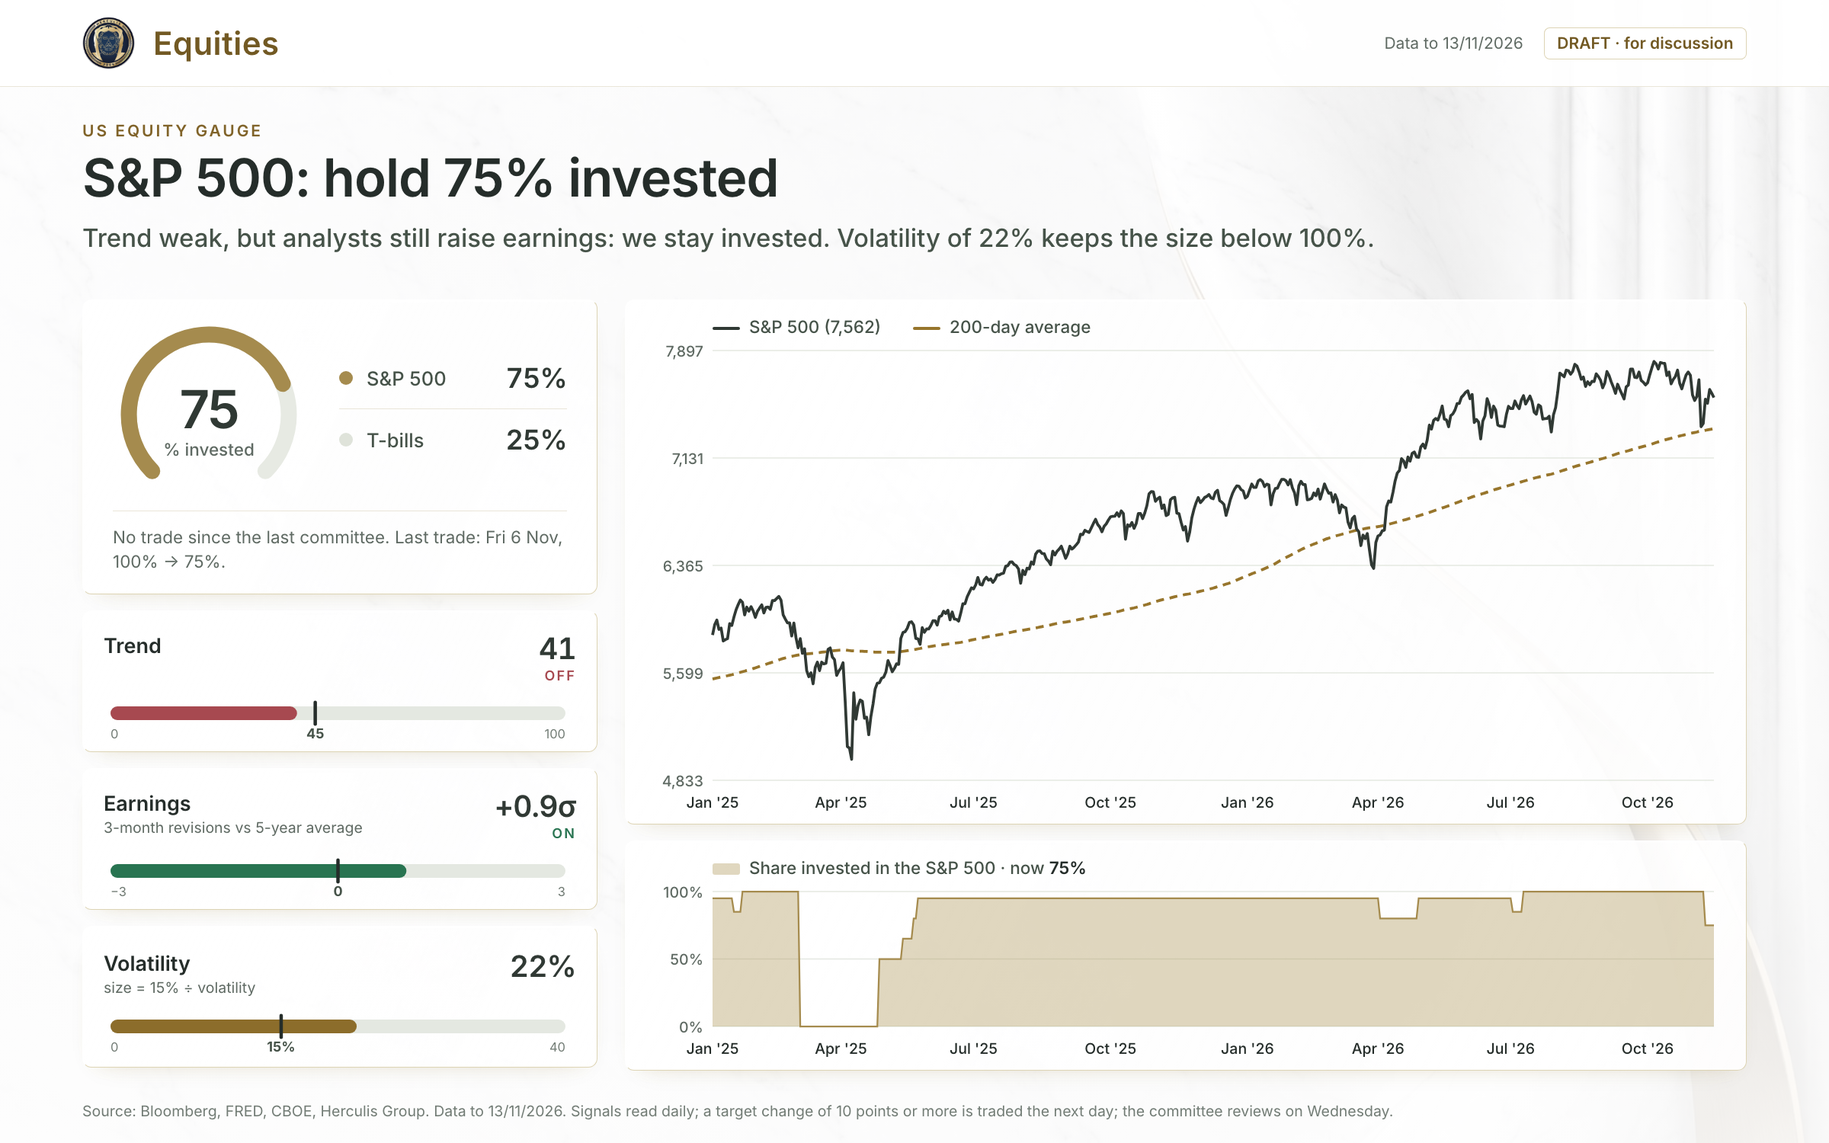
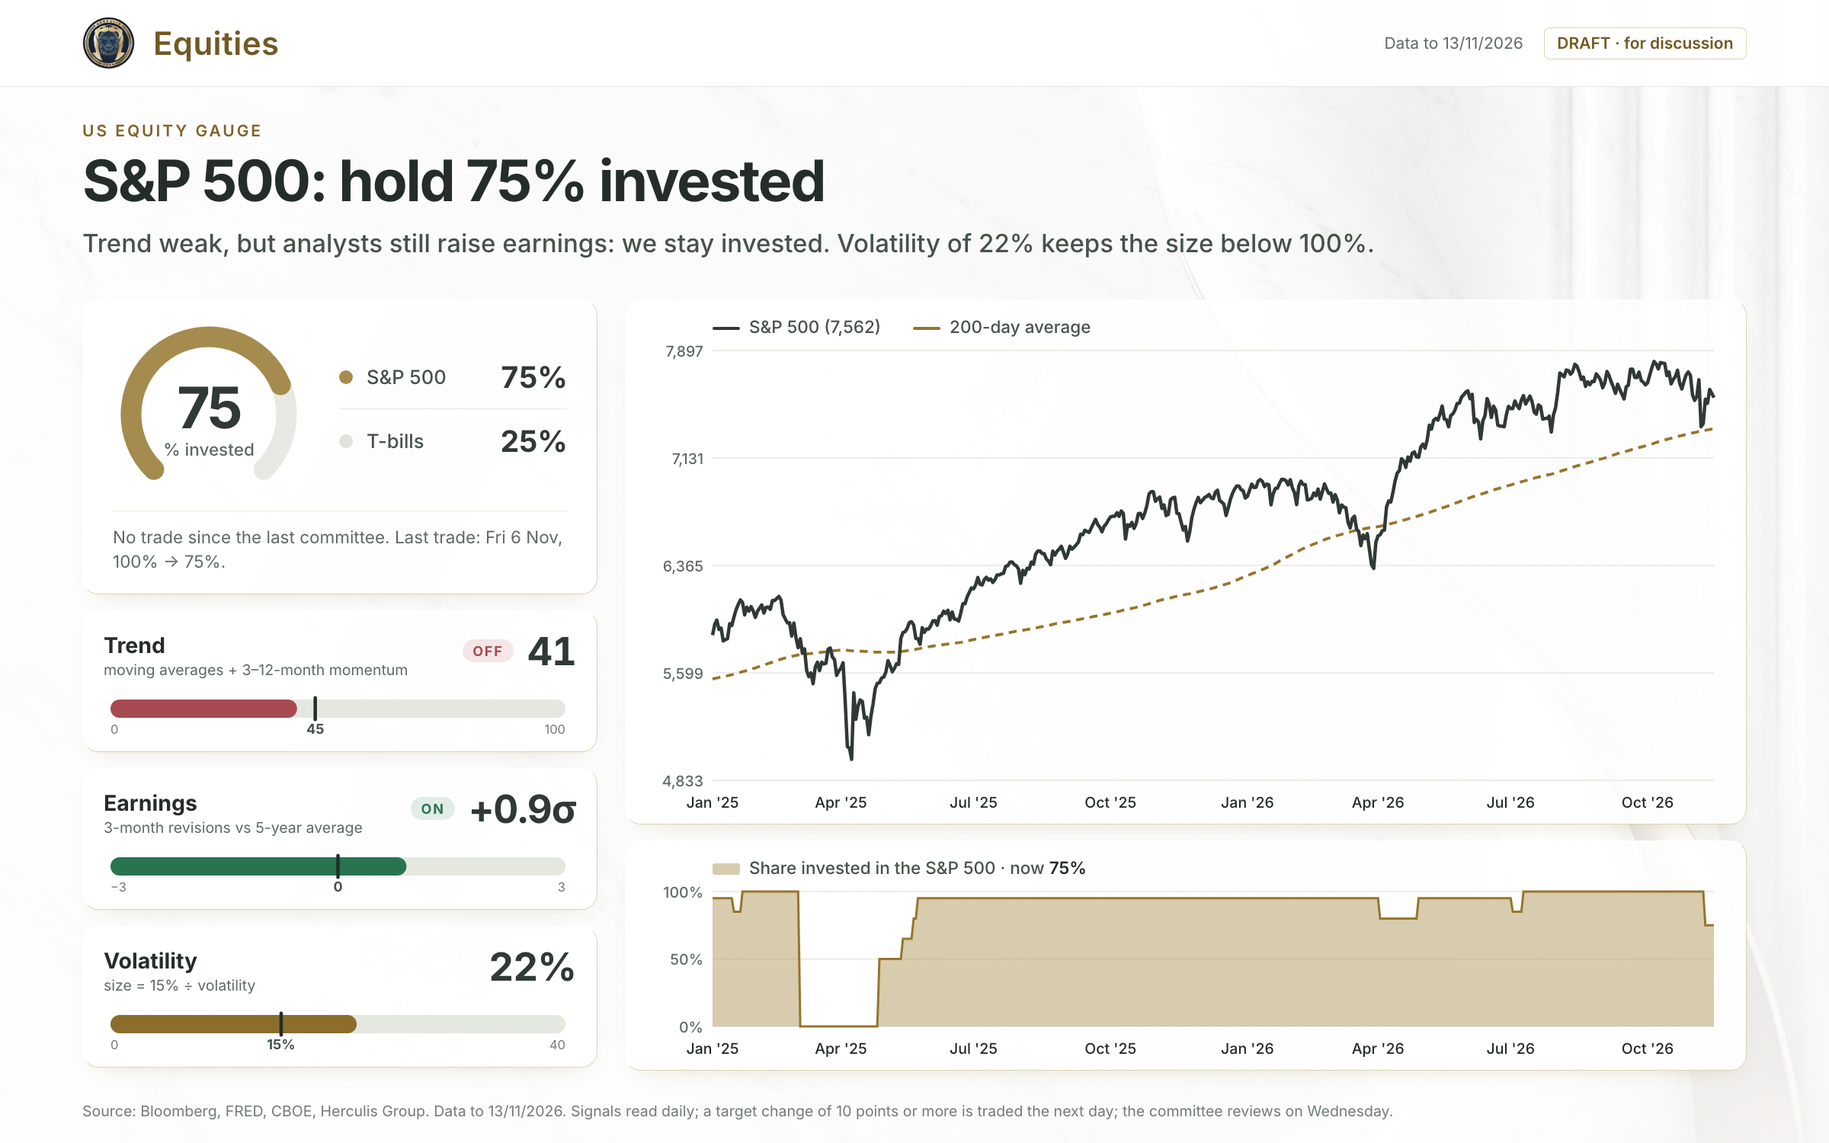
mockups: herculis slide v7 - trend definition, bolder look
- Trend tile sub-line: "moving averages + 3-12-month momentum" (what the DMAS-based
  score combines: price vs 50/100/200-day averages and 3/6/12-month momentum).
- Bolder: headline 700, tile values 34px 700, legend values 700, ON/OFF as tinted
  pills beside the value, thicker signal bars (16px, style option BARH), thicker
  gauge ring, 14px card corners, heavier price line and exposure fill.
- Default --style ic output is byte-identical.

diff --git a/mockups/us_gauge_slide_herculis.html b/mockups/us_gauge_slide_herculis.html
@@ -18,13 +18,13 @@ body{width:1600px;height:1000px;font-family:var(--sans);color:var(--text);positi
 .top .meta{margin-left:auto;display:flex;align-items:center;gap:18px;font-size:14px;color:var(--muted)}
 .draft{font-weight:600;color:var(--gold-ink);background:var(--glass);border:1px solid var(--gold-edge);border-radius:5px;padding:5px 11px}
 .head{margin:30px 72px 0}
-.head h2{font-size:46px;font-weight:600;line-height:1.1;letter-spacing:-.015em;margin-top:8px}
+.head h2{font-size:50px;font-weight:700;line-height:1.1;letter-spacing:-.03em;margin-top:8px}
 .head p:not(.eyebrow){font-size:22px;font-weight:500;color:var(--text-2);margin-top:12px;max-width:1400px;line-height:1.35}
 .body{position:absolute;left:72px;top:262px;width:1456px;height:672px;display:flex;gap:24px}
 .left{width:470px;display:flex;flex-direction:column;gap:14px}
 /* white glass cards with gold edges, as on herculis.ai (no marble inside: the page already has it) */
 .card,.gg{background:linear-gradient(116deg,var(--surface),var(--glass) 60%,var(--veil));border:1px solid var(--surface);border-right-color:var(--gold-edge);border-bottom-color:var(--gold-edge);
- border-radius:8px;box-shadow:inset 1px 1px 1px var(--surface),var(--shadow-sm)}
+ border-radius:14px;box-shadow:inset 1px 1px 1px var(--surface),var(--shadow-sm)}
 /* allocation: S&P 500 / T-bills gauge */
 .dec{padding:20px 26px 18px}
 .alloc{display:flex;align-items:center;gap:30px}
@@ -34,15 +34,16 @@ body{width:1600px;height:1000px;font-family:var(--sans);color:var(--text);positi
 .legend2 div+div{border-top:1px solid var(--gold-hair)}
 .legend2 i{width:12px;height:12px;border-radius:50%;flex:none}
 .legend2 span{flex:1;font-size:17px;font-weight:500;color:var(--text-2)}
-.legend2 b{font-size:24px;font-weight:600;letter-spacing:-.02em;color:var(--score);font-variant-numeric:tabular-nums}
+.legend2 b{font-size:26px;font-weight:700;letter-spacing:-.02em;color:var(--score);font-variant-numeric:tabular-nums}
 .dec .last{margin-top:14px;padding-top:12px;border-top:1px solid var(--gold-hair);font-size:15px;color:var(--muted);line-height:1.4}
 /* the three signals, stacked */
 .sig{flex:1;display:flex;flex-direction:column;gap:14px}
-.gg{flex:1;padding:12px 18px 2px;display:flex;flex-direction:column;justify-content:center;gap:12px}
+.gg{flex:1;padding:10px 18px 6px;display:flex;flex-direction:column;justify-content:center;gap:12px}
 .gh{display:flex;justify-content:space-between;align-items:flex-start}
-.gh b{font-size:18px;font-weight:600}.gh small{display:block;font-size:13px;color:var(--muted);margin-top:2px}
-.gv{text-align:right}.gv strong{font-variant-numeric:tabular-nums;font-size:26px;font-weight:600;color:var(--score);display:block;line-height:1;letter-spacing:-.02em}
-.gv span{font-size:12px;font-weight:600;letter-spacing:.12em;display:block;margin-top:4px}
+.gh b{font-size:19px;font-weight:700}.gh small{display:block;font-size:13px;color:var(--muted);margin-top:2px}
+.gv{display:flex;flex-direction:row-reverse;align-items:center;gap:12px}.gv strong{font-variant-numeric:tabular-nums;font-size:34px;font-weight:700;color:var(--score);display:block;line-height:1;letter-spacing:-.02em}
+.gv span{display:inline-block;font-size:12px;font-weight:700;letter-spacing:.1em;padding:3px 9px;border-radius:999px;background:color-mix(in srgb,currentColor 13%,transparent)}
+.gv span:empty{display:none}
 /* charts: price on top, exposure in its own card below */
 .right{flex:1;display:flex;flex-direction:column;gap:14px}
 .chart{padding:14px 18px 4px}
@@ -68,7 +69,7 @@ svg text{font-family:var(--sans)}
    </div>
    <div class="last">No trade since the last committee. Last trade: Fri 6 Nov, 100% → 75%.</div>
   </div>
-  <div class="sig"><div class="gg"><div class="gh"><div><b>Trend</b><small></small></div><div class="gv"><strong>41</strong><span style="color:#a74950">OFF</span></div></div><svg width="410" height="38"><rect x="6" y="8" width="398" height="12" rx="6" fill="#e4e8e1"/><rect x="6" y="8" width="163.2" height="12" rx="6" fill="#a74950"/><rect x="183.6" y="3" width="3" height="22" rx="1.5" fill="#252d2a"/><text x="185.1" y="36" font-size="12" fill="#465349" text-anchor="middle" font-weight="700">45</text><text x="6" y="36" font-size="11" fill="#727c75">0</text><text x="404" y="36" font-size="11" fill="#727c75" text-anchor="end">100</text></svg></div><div class="gg"><div class="gh"><div><b>Earnings</b><small>3-month revisions vs 5-year average</small></div><div class="gv"><strong>+0.9σ</strong><span style="color:#287451">ON</span></div></div><svg width="410" height="38"><rect x="6" y="8" width="398" height="12" rx="6" fill="#e4e8e1"/><rect x="6" y="8" width="258.9" height="12" rx="6" fill="#287451"/><rect x="203.5" y="3" width="3" height="22" rx="1.5" fill="#252d2a"/><text x="205.0" y="36" font-size="12" fill="#465349" text-anchor="middle" font-weight="700">0</text><text x="6" y="36" font-size="11" fill="#727c75">−3</text><text x="404" y="36" font-size="11" fill="#727c75" text-anchor="end">3</text></svg></div><div class="gg"><div class="gh"><div><b>Volatility</b><small>size = 15% ÷ volatility</small></div><div class="gv"><strong>22%</strong><span style="color:#8c6d2b"></span></div></div><svg width="410" height="38"><rect x="6" y="8" width="398" height="12" rx="6" fill="#e4e8e1"/><rect x="6" y="8" width="215.4" height="12" rx="6" fill="#8c6d2b"/><rect x="153.8" y="3" width="3" height="22" rx="1.5" fill="#252d2a"/><text x="155.2" y="36" font-size="12" fill="#465349" text-anchor="middle" font-weight="700">15%</text><text x="6" y="36" font-size="11" fill="#727c75">0</text><text x="404" y="36" font-size="11" fill="#727c75" text-anchor="end">40</text></svg></div></div>
+  <div class="sig"><div class="gg"><div class="gh"><div><b>Trend</b><small>moving averages + 3–12-month momentum</small></div><div class="gv"><strong>41</strong><span style="color:#a74950">OFF</span></div></div><svg width="410" height="38"><rect x="6" y="6" width="398" height="16" rx="8" fill="#e4e8e1"/><rect x="6" y="6" width="163.2" height="16" rx="8" fill="#a74950"/><rect x="183.6" y="3" width="3" height="22" rx="1.5" fill="#252d2a"/><text x="185.1" y="36" font-size="12" fill="#465349" text-anchor="middle" font-weight="700">45</text><text x="6" y="36" font-size="11" fill="#727c75">0</text><text x="404" y="36" font-size="11" fill="#727c75" text-anchor="end">100</text></svg></div><div class="gg"><div class="gh"><div><b>Earnings</b><small>3-month revisions vs 5-year average</small></div><div class="gv"><strong>+0.9σ</strong><span style="color:#287451">ON</span></div></div><svg width="410" height="38"><rect x="6" y="6" width="398" height="16" rx="8" fill="#e4e8e1"/><rect x="6" y="6" width="258.9" height="16" rx="8" fill="#287451"/><rect x="203.5" y="3" width="3" height="22" rx="1.5" fill="#252d2a"/><text x="205.0" y="36" font-size="12" fill="#465349" text-anchor="middle" font-weight="700">0</text><text x="6" y="36" font-size="11" fill="#727c75">−3</text><text x="404" y="36" font-size="11" fill="#727c75" text-anchor="end">3</text></svg></div><div class="gg"><div class="gh"><div><b>Volatility</b><small>size = 15% ÷ volatility</small></div><div class="gv"><strong>22%</strong><span style="color:#8c6d2b"></span></div></div><svg width="410" height="38"><rect x="6" y="6" width="398" height="16" rx="8" fill="#e4e8e1"/><rect x="6" y="6" width="215.4" height="16" rx="8" fill="#8c6d2b"/><rect x="153.8" y="3" width="3" height="22" rx="1.5" fill="#252d2a"/><text x="155.2" y="36" font-size="12" fill="#465349" text-anchor="middle" font-weight="700">15%</text><text x="6" y="36" font-size="11" fill="#727c75">0</text><text x="404" y="36" font-size="11" fill="#727c75" text-anchor="end">40</text></svg></div></div>
  </div>
  <div class="right">
   <div class="card chart px">
@@ -76,7 +77,7 @@ svg text{font-family:var(--sans)}
    <svg id="c" width="944" height="414"></svg>
   </div>
   <div class="card chart">
-   <div class="legend"><span><i style="background:#b29a5e66;height:10px"></i>Share invested in the S&amp;P 500 · now <b>75%</b></span></div>
+   <div class="legend"><span><i style="background:#b29a5e80;height:10px"></i>Share invested in the S&amp;P 500 · now <b>75%</b></span></div>
    <svg id="e" width="944" height="156"></svg>
   </div>
  </div>
@@ -93,18 +94,18 @@ const months=(H)=>{const m0={};let s='';D.dates.forEach((d,i)=>{const m=d.slice(
  const lo=Math.min(...D.px,...mav)*0.97,hi=Math.max(...D.px)*1.01,y=v=>T+(hi-v)/(hi-lo)*ph;let s='';
  for(let k=0;k<=4;k++){const v=lo+(hi-lo)*k/4;s+=ytxt(y(v),Math.round(v).toLocaleString('en-US'))}
  s+=`<polyline fill="none" stroke="#97752c" stroke-width="2.5" stroke-dasharray="7 5" points="${D.ma200.map((v,i)=>v===null?'':x(i)+','+y(v)).join(' ')}"/>`;
- s+=`<polyline fill="none" stroke="#303934" stroke-width="2.5" stroke-linejoin="round" points="${D.px.map((v,i)=>x(i)+','+y(v)).join(' ')}"/>`;
+ s+=`<polyline fill="none" stroke="#303934" stroke-width="3" stroke-linejoin="round" points="${D.px.map((v,i)=>x(i)+','+y(v)).join(' ')}"/>`;
  document.getElementById('c').innerHTML=s+months(H)}
 // exposure chart
 {const H=156,T=8,B=30,wh=H-T-B,yw=v=>T+(1-v)*wh;let s='';[0,0.5,1].forEach(v=>s+=ytxt(yw(v),v*100+'%'));
  let a=`${x(0)},${yw(0)} `,edge='';D.w.forEach((v,i)=>{if(v!==null){a+=`${x(i)},${yw(v)} `;edge+=`${x(i)},${yw(v)} `}});a+=`${x(n-1)},${yw(0)}`;
- s+=`<polygon points="${a}" fill="#b29a5e66"/><polyline fill="none" stroke="#a58b4e" stroke-width="1.5" points="${edge}"/>`;
+ s+=`<polygon points="${a}" fill="#b29a5e80"/><polyline fill="none" stroke="#97752c" stroke-width="2" points="${edge}"/>`;
  document.getElementById('e').innerHTML=s+months(H)}
 // allocation gauge: three-quarter ring. One light track, the S&P 500 share drawn on top in gold, number in the centre ("75" over "% invested").
-{const cx=84,cy=80,r=70,sw=14,F=f=>{const t=(225-270*f)*Math.PI/180;return `${(cx+r*Math.cos(t)).toFixed(1)},${(cy-r*Math.sin(t)).toFixed(1)}`},
+{const cx=84,cy=80,r=68,sw=18,F=f=>{const t=(225-270*f)*Math.PI/180;return `${(cx+r*Math.cos(t)).toFixed(1)},${(cy-r*Math.sin(t)).toFixed(1)}`},
  arc=(f,c)=>f>0.002?`<path d="M${F(0)} A${r} ${r} 0 ${270*f>180?1:0} 1 ${F(f)}" fill="none" stroke="${c}" stroke-width="${sw}" stroke-linecap="round"/>`:'';
  let s=arc(1,'#e7eae3')+arc(HELD,'#a58b4e');
- s+=`<text x="${cx}" y="${cy+12}" font-size="46" font-weight="600" text-anchor="middle" fill="#303934" letter-spacing="-1.5">${Math.round(HELD*100)}</text>`;
+ s+=`<text x="${cx}" y="${cy+12}" font-size="50" font-weight="700" text-anchor="middle" fill="#303934" letter-spacing="-2">${Math.round(HELD*100)}</text>`;
  s+=`<text x="${cx}" y="${cy+36}" font-size="15" font-weight="500" text-anchor="middle" fill="#5f6a63">% invested</text>`;
  document.getElementById('g').innerHTML=s}
 </script></body></html>

diff --git a/mockups/core_slide_template_herculis.html b/mockups/core_slide_template_herculis.html
@@ -18,13 +18,13 @@ body{width:1600px;height:1000px;font-family:var(--sans);color:var(--text);positi
 .top .meta{margin-left:auto;display:flex;align-items:center;gap:18px;font-size:14px;color:var(--muted)}
 .draft{font-weight:600;color:var(--gold-ink);background:var(--glass);border:1px solid var(--gold-edge);border-radius:5px;padding:5px 11px}
 .head{margin:30px 72px 0}
-.head h2{font-size:46px;font-weight:600;line-height:1.1;letter-spacing:-.015em;margin-top:8px}
+.head h2{font-size:50px;font-weight:700;line-height:1.1;letter-spacing:-.03em;margin-top:8px}
 .head p:not(.eyebrow){font-size:22px;font-weight:500;color:var(--text-2);margin-top:12px;max-width:1400px;line-height:1.35}
 .body{position:absolute;left:72px;top:262px;width:1456px;height:672px;display:flex;gap:24px}
 .left{width:470px;display:flex;flex-direction:column;gap:14px}
 /* white glass cards with gold edges, as on herculis.ai (no marble inside: the page already has it) */
 .card,.gg{background:linear-gradient(116deg,var(--surface),var(--glass) 60%,var(--veil));border:1px solid var(--surface);border-right-color:var(--gold-edge);border-bottom-color:var(--gold-edge);
- border-radius:8px;box-shadow:inset 1px 1px 1px var(--surface),var(--shadow-sm)}
+ border-radius:14px;box-shadow:inset 1px 1px 1px var(--surface),var(--shadow-sm)}
 /* allocation: S&P 500 / T-bills gauge */
 .dec{padding:20px 26px 18px}
 .alloc{display:flex;align-items:center;gap:30px}
@@ -34,15 +34,16 @@ body{width:1600px;height:1000px;font-family:var(--sans);color:var(--text);positi
 .legend2 div+div{border-top:1px solid var(--gold-hair)}
 .legend2 i{width:12px;height:12px;border-radius:50%;flex:none}
 .legend2 span{flex:1;font-size:17px;font-weight:500;color:var(--text-2)}
-.legend2 b{font-size:24px;font-weight:600;letter-spacing:-.02em;color:var(--score);font-variant-numeric:tabular-nums}
+.legend2 b{font-size:26px;font-weight:700;letter-spacing:-.02em;color:var(--score);font-variant-numeric:tabular-nums}
 .dec .last{margin-top:14px;padding-top:12px;border-top:1px solid var(--gold-hair);font-size:15px;color:var(--muted);line-height:1.4}
 /* the three signals, stacked */
 .sig{flex:1;display:flex;flex-direction:column;gap:14px}
-.gg{flex:1;padding:12px 18px 2px;display:flex;flex-direction:column;justify-content:center;gap:12px}
+.gg{flex:1;padding:10px 18px 6px;display:flex;flex-direction:column;justify-content:center;gap:12px}
 .gh{display:flex;justify-content:space-between;align-items:flex-start}
-.gh b{font-size:18px;font-weight:600}.gh small{display:block;font-size:13px;color:var(--muted);margin-top:2px}
-.gv{text-align:right}.gv strong{font-variant-numeric:tabular-nums;font-size:26px;font-weight:600;color:var(--score);display:block;line-height:1;letter-spacing:-.02em}
-.gv span{font-size:12px;font-weight:600;letter-spacing:.12em;display:block;margin-top:4px}
+.gh b{font-size:19px;font-weight:700}.gh small{display:block;font-size:13px;color:var(--muted);margin-top:2px}
+.gv{display:flex;flex-direction:row-reverse;align-items:center;gap:12px}.gv strong{font-variant-numeric:tabular-nums;font-size:34px;font-weight:700;color:var(--score);display:block;line-height:1;letter-spacing:-.02em}
+.gv span{display:inline-block;font-size:12px;font-weight:700;letter-spacing:.1em;padding:3px 9px;border-radius:999px;background:color-mix(in srgb,currentColor 13%,transparent)}
+.gv span:empty{display:none}
 /* charts: price on top, exposure in its own card below */
 .right{flex:1;display:flex;flex-direction:column;gap:14px}
 .chart{padding:14px 18px 4px}
@@ -76,7 +77,7 @@ svg text{font-family:var(--sans)}
    <svg id="c" width="944" height="414"></svg>
   </div>
   <div class="card chart">
-   <div class="legend"><span><i style="background:#b29a5e66;height:10px"></i>Share invested in the S&amp;P 500 · now <b>{{HELD}}</b></span></div>
+   <div class="legend"><span><i style="background:#b29a5e80;height:10px"></i>Share invested in the S&amp;P 500 · now <b>{{HELD}}</b></span></div>
    <svg id="e" width="944" height="156"></svg>
   </div>
  </div>
@@ -93,18 +94,18 @@ const months=(H)=>{const m0={};let s='';D.dates.forEach((d,i)=>{const m=d.slice(
  const lo=Math.min(...D.px,...mav)*0.97,hi=Math.max(...D.px)*1.01,y=v=>T+(hi-v)/(hi-lo)*ph;let s='';
  for(let k=0;k<=4;k++){const v=lo+(hi-lo)*k/4;s+=ytxt(y(v),Math.round(v).toLocaleString('en-US'))}
  s+=`<polyline fill="none" stroke="#97752c" stroke-width="2.5" stroke-dasharray="7 5" points="${D.ma200.map((v,i)=>v===null?'':x(i)+','+y(v)).join(' ')}"/>`;
- s+=`<polyline fill="none" stroke="#303934" stroke-width="2.5" stroke-linejoin="round" points="${D.px.map((v,i)=>x(i)+','+y(v)).join(' ')}"/>`;
+ s+=`<polyline fill="none" stroke="#303934" stroke-width="3" stroke-linejoin="round" points="${D.px.map((v,i)=>x(i)+','+y(v)).join(' ')}"/>`;
  document.getElementById('c').innerHTML=s+months(H)}
 // exposure chart
 {const H=156,T=8,B=30,wh=H-T-B,yw=v=>T+(1-v)*wh;let s='';[0,0.5,1].forEach(v=>s+=ytxt(yw(v),v*100+'%'));
  let a=`${x(0)},${yw(0)} `,edge='';D.w.forEach((v,i)=>{if(v!==null){a+=`${x(i)},${yw(v)} `;edge+=`${x(i)},${yw(v)} `}});a+=`${x(n-1)},${yw(0)}`;
- s+=`<polygon points="${a}" fill="#b29a5e66"/><polyline fill="none" stroke="#a58b4e" stroke-width="1.5" points="${edge}"/>`;
+ s+=`<polygon points="${a}" fill="#b29a5e80"/><polyline fill="none" stroke="#97752c" stroke-width="2" points="${edge}"/>`;
  document.getElementById('e').innerHTML=s+months(H)}
 // allocation gauge: three-quarter ring. One light track, the S&P 500 share drawn on top in gold, number in the centre ("75" over "% invested").
-{const cx=84,cy=80,r=70,sw=14,F=f=>{const t=(225-270*f)*Math.PI/180;return `${(cx+r*Math.cos(t)).toFixed(1)},${(cy-r*Math.sin(t)).toFixed(1)}`},
+{const cx=84,cy=80,r=68,sw=18,F=f=>{const t=(225-270*f)*Math.PI/180;return `${(cx+r*Math.cos(t)).toFixed(1)},${(cy-r*Math.sin(t)).toFixed(1)}`},
  arc=(f,c)=>f>0.002?`<path d="M${F(0)} A${r} ${r} 0 ${270*f>180?1:0} 1 ${F(f)}" fill="none" stroke="${c}" stroke-width="${sw}" stroke-linecap="round"/>`:'';
  let s=arc(1,'#e7eae3')+arc(HELD,'#a58b4e');
- s+=`<text x="${cx}" y="${cy+12}" font-size="46" font-weight="600" text-anchor="middle" fill="#303934" letter-spacing="-1.5">${Math.round(HELD*100)}</text>`;
+ s+=`<text x="${cx}" y="${cy+12}" font-size="50" font-weight="700" text-anchor="middle" fill="#303934" letter-spacing="-2">${Math.round(HELD*100)}</text>`;
  s+=`<text x="${cx}" y="${cy+36}" font-size="15" font-weight="500" text-anchor="middle" fill="#5f6a63">% invested</text>`;
  document.getElementById('g').innerHTML=s}
 </script></body></html>

diff --git a/mockups/build_core_slide.py b/mockups/build_core_slide.py
@@ -16,16 +16,16 @@ HERE = Path(__file__).resolve().parent
 # colours used inside the builder's SVG/HTML snippets; the rest of each look lives in its template
 STYLES = {
     'ic': dict(GREEN='#16A34A', RED='#DC2626', AMBER='#D97706', TRACK='#E5E9F0', MARK='#040C38', LAB='#475569',
-               END='#94A3B8', GREY='#94A3B8', tpl='core_slide_template.html', out='us_gauge_slide.html',
+               END='#94A3B8', GREY='#94A3B8', BARH=12, tpl='core_slide_template.html', out='us_gauge_slide.html',
                name='US equities', W=268, trend=('Trend', 'score 0–100 · switch at 45'), vol_size=True,
                earn=('Earnings', 'revisions, 3 months · switch at 0', '')),
     # herculis.ai tokens (market-herculis/quant-web/site/tokens.css): positive, negative, gold accent, text, muted, dim
     'herculis': dict(GREEN='#287451', RED='#a74950', AMBER='#8c6d2b', TRACK='#e4e8e1', MARK='#252d2a', LAB='#465349',
-                     END='#727c75', GREY='#8597a0', tpl='core_slide_template_herculis.html', out='us_gauge_slide_herculis.html',
-                     name='S&amp;P 500', W=410, trend=('Trend', ''), vol_size=False,
+                     END='#727c75', GREY='#8597a0', BARH=16, tpl='core_slide_template_herculis.html', out='us_gauge_slide_herculis.html',
+                     name='S&amp;P 500', W=410, trend=('Trend', 'moving averages + 3–12-month momentum'), vol_size=False,
                      earn=('Earnings', '3-month revisions vs 5-year average', 'σ')),
 }
-GREEN, RED, AMBER, TRACK, MARK, LAB, END, GREY = (STYLES['ic'][k] for k in ('GREEN', 'RED', 'AMBER', 'TRACK', 'MARK', 'LAB', 'END', 'GREY'))
+GREEN, RED, AMBER, TRACK, MARK, LAB, END, GREY, BARH = (STYLES['ic'][k] for k in ('GREEN', 'RED', 'AMBER', 'TRACK', 'MARK', 'LAB', 'END', 'GREY', 'BARH'))
 
 
 def minus(s: str) -> str:
@@ -34,8 +34,8 @@ def minus(s: str) -> str:
 
 def bar(value, lo, hi, color, mark, mark_label, w=440):
     X = lambda v: 6 + (min(max(v, lo), hi) - lo) / (hi - lo) * (w - 12)
-    return (f'<svg width="{w}" height="38"><rect x="6" y="8" width="{w - 12}" height="12" rx="6" fill="{TRACK}"/>'
-            f'<rect x="6" y="8" width="{max(X(value) - 6, 12):.1f}" height="12" rx="6" fill="{color}"/>'
+    return (f'<svg width="{w}" height="38"><rect x="6" y="{14 - BARH // 2}" width="{w - 12}" height="{BARH}" rx="{BARH // 2}" fill="{TRACK}"/>'
+            f'<rect x="6" y="{14 - BARH // 2}" width="{max(X(value) - 6, 12):.1f}" height="{BARH}" rx="{BARH // 2}" fill="{color}"/>'
             f'<rect x="{X(mark) - 1.5:.1f}" y="3" width="3" height="22" rx="1.5" fill="{MARK}"/>'
             f'<text x="{X(mark):.1f}" y="36" font-size="12" fill="{LAB}" text-anchor="middle" font-weight="700">{mark_label}</text>'
             f'<text x="6" y="36" font-size="11" fill="{END}">{minus(f"{lo:g}")}</text>'
@@ -52,11 +52,11 @@ def wednesday_after(d: date) -> date:
 
 
 def main():
-    global GREEN, RED, AMBER, TRACK, MARK, LAB, END, GREY
+    global GREEN, RED, AMBER, TRACK, MARK, LAB, END, GREY, BARH
     ap = argparse.ArgumentParser(description=__doc__.splitlines()[0])
     ap.add_argument('--style', choices=sorted(STYLES), default='ic', help='ic (default, navy/gold) or herculis (herculis.ai skin)')
     S = STYLES[ap.parse_args().style]
-    GREEN, RED, AMBER, TRACK, MARK, LAB, END, GREY = (S[k] for k in ('GREEN', 'RED', 'AMBER', 'TRACK', 'MARK', 'LAB', 'END', 'GREY'))
+    GREEN, RED, AMBER, TRACK, MARK, LAB, END, GREY, BARH = (S[k] for k in ('GREEN', 'RED', 'AMBER', 'TRACK', 'MARK', 'LAB', 'END', 'GREY', 'BARH'))
     D = json.loads((HERE / 'core_slide_data.json').read_text())
     n = D['now']
     trend_in, earn_in = n['dmas'] >= 45, n['rev_z'] >= 0
